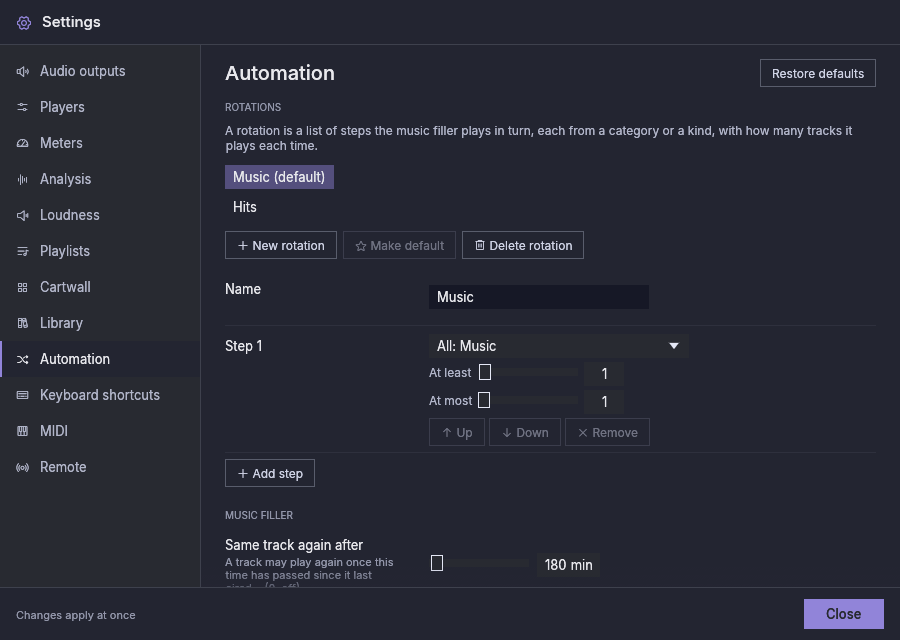
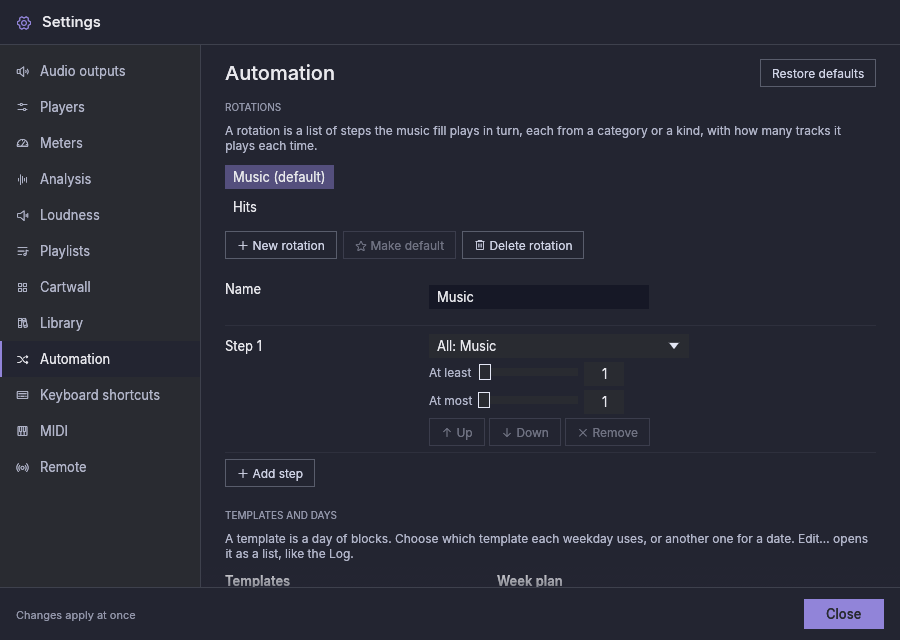
docs: the rework spec and guide match templates in settings
AR20–AR21 say where a date's template is chosen and which button went;
AR22b records that a template edit keeps today's block on air as
loaded. The Settings → Automation image now shows the start of
Templates and days.

diff --git a/docs/superpowers/specs/2026-11-13-automation-rework-design.md b/docs/superpowers/specs/2026-11-13-automation-rework-design.md
@@ -265,14 +265,15 @@ and the Edit button.
   Log: the rotations (as today), the **templates** list (new, duplicate,
   rename, delete), the **week plan** (a template per weekday), and the
   **dates** with changes or another template (a calendar, as today's
-  Days tab). The floating schedule editor window and the column's
-  "Edit…" button are removed.
+  Days tab), where a date can use another template. The floating schedule
+  editor window and the Log column's "Edit log" button are removed.
 - **AR21.** Selecting a template, or a date, opens a **popup window that
   is the same playlist editor as the Log column** (§6, AR14–AR19): block
-  headers, items, the Add menu, drag from the library or the file system,
-  reorder, remove. For a date it edits that date's changes, shows changed
-  blocks as "changed for this day" with "Back to the template" in the row
-  menu, and lets the date use another template. Settings is a modal
+  headers, items, the Add menu, drag from the library (files from the
+  system later, as on the Log, AR17), reorder, remove. For a date it edits
+  that date's changes and shows changed blocks as "changed for this day"
+  with "Back to the template" in the block header's menu; the date's
+  template is chosen in Settings (AR20). Settings is a modal
   dialog, so opening the popup **closes Settings** and the popup is a
   non-modal floating window like the library, which can stay open while
   tracks are dragged into it; closing it leaves the operator where they
@@ -280,6 +281,11 @@ and the Edit button.
 - **AR22.** The popup and the Log column share the list code *(builder's
   call how)*; anything that works in one works in the other, except
   playing (the popup does not play; its rows have no next).
+- **AR22b.** A template edit to a block that is on air today, while today
+  follows the template for that block, first keeps that block as it was
+  loaded as a change of today (AU12); the template's change reaches it
+  from the next day. So the Log's rows always match what plays
+  *(my call, from the final review of plan 5)*.
 
 ## 8. Look and feel
 

diff --git a/docs/superpowers/plans/2026-11-13-automation-rework-plan5-templates.md b/docs/superpowers/plans/2026-11-13-automation-rework-plan5-templates.md
@@ -19,7 +19,7 @@
 
 ## Review Focus
 
-- A template edited while its block is on air today: the on-air block is a date's computed block; a template change reaches it only if the date has no change for that block (AU12) — the reload rule (AR19b) must not fire for template edits.
+- A template edited while its block is on air today: the on-air block is a date's computed block; a template change reaches it only if the date has no change for that block (AU12) — the reload rule (AR19b) must not fire for template edits. *(Executed: AR22b, today keeps the block on air as loaded, as a date change.)*
 - Deleting the template the popup shows closes the popup.
 - The popup and Settings never both open (Settings is modal).
 - Rotations still edited in Settings as today.

diff --git a/docs/user/settings.md b/docs/user/settings.md
@@ -277,7 +277,7 @@ changes](library.md#when-a-file-changes).
 The [music fill's](automation.md) rotations, the Log's templates and days,
 and the music fill's rules (not on Android).
 
-![Settings, Automation: the rotations Music (the default) and Hits, the selected Music with its one step over all music, and the music fill's rules](../images/guide/settings-automation.png)
+![Settings, Automation: the rotations Music (the default) and Hits, the selected Music with its one step over all music, and the start of Templates and days](../images/guide/settings-automation.png)
 
 - **Rotations:** the list, the default marked. **New rotation** adds one
   that plays all music, **Make default** makes the selected one the

diff --git a/docs/user/automation.md b/docs/user/automation.md
@@ -172,7 +172,7 @@ installation has one, **Music**, which plays all your music.
 
 Rotations are made in Settings → Automation:
 
-![Settings, Automation: the rotations Music (the default) and Hits, the selected Music with its one step over all music, its counts At least and At most, and the music fill's rules](../images/guide/settings-automation.png)
+![Settings, Automation: the rotations Music (the default) and Hits, the selected Music with its one step over all music, its counts At least and At most, and the start of Templates and days](../images/guide/settings-automation.png)
 
 ## How it chooses
 
